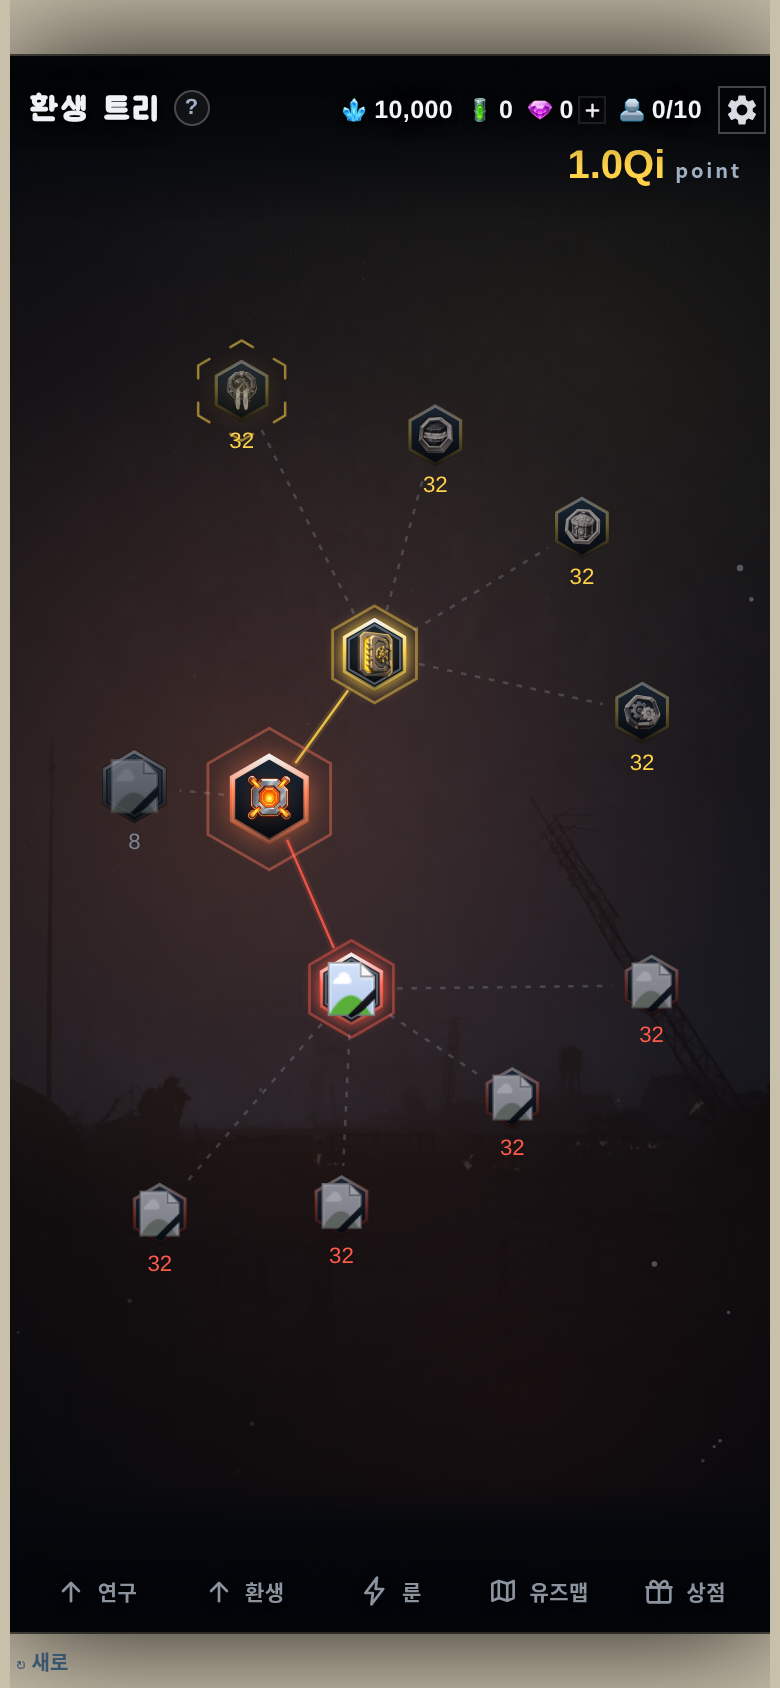
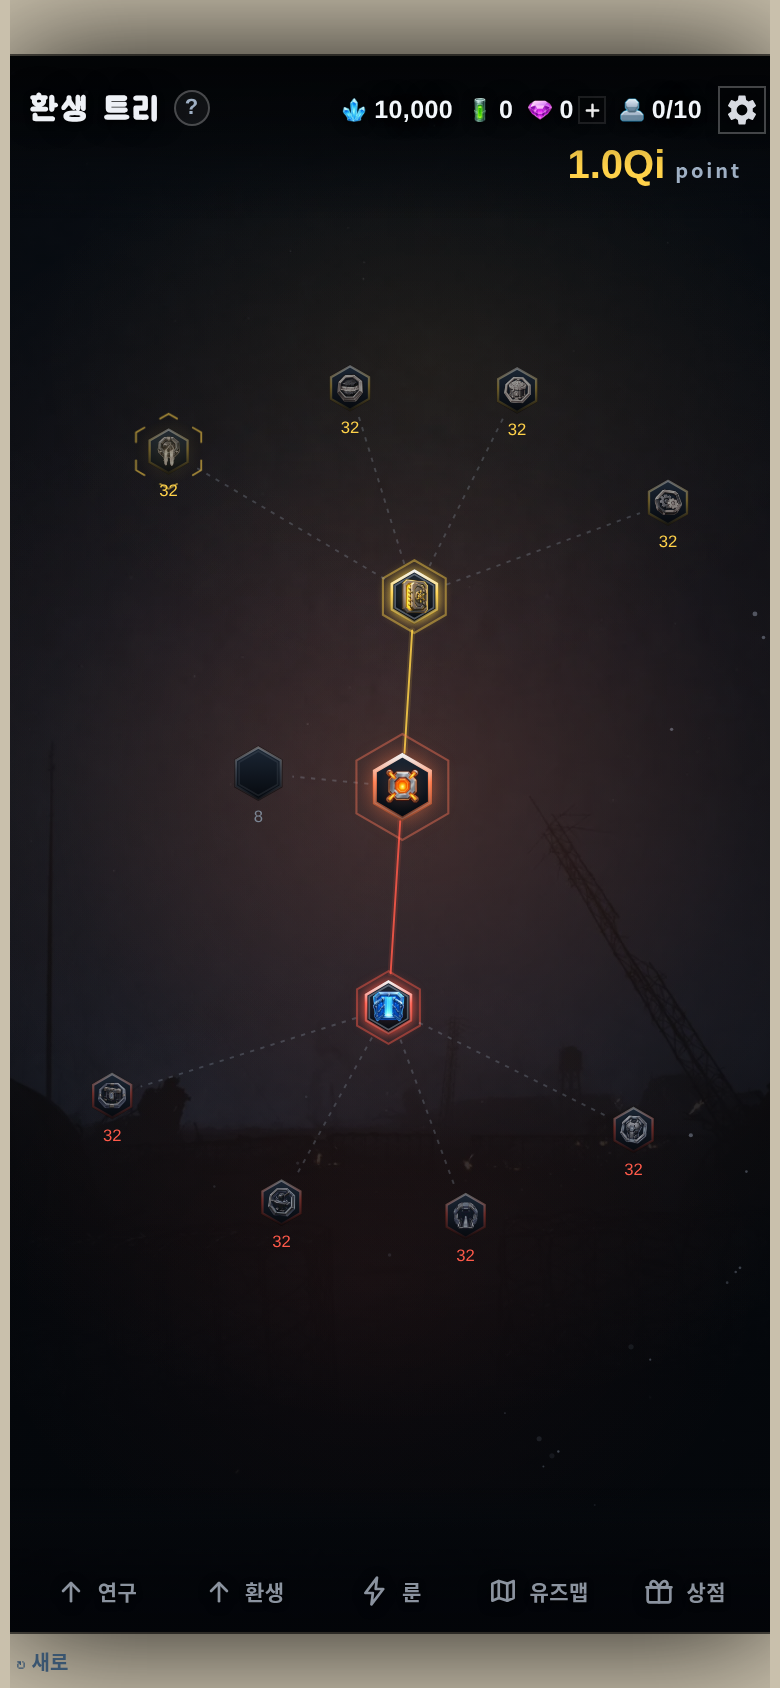
📏 트리 줄기를 등간격으로 — 묶음마디↔첫 계열만 두 배로 벌어져 있었다
사용자 지적: 「각 갈래들의 위치가 두 번째 다음으로 너무 멀어진다 · 모양이 좀 이상하다」

재 보니 그대로였다
  가운데 0 → 갈래마디 63 → 묶음마디 143 → 계열 291 → 363 → 434 → 512
  간격       63       81        148    72    71    78
묶음마디↔첫 계열만 148 로, 다른 칸(63~81)의 두 배였다. 겹침을 고치려고
R0 를 252 → 340 으로 키운 부작용이다.

⛔ R0 를 되돌려서 맞추면 안 된다 — 첫 계열이 안쪽으로 오면 형제끼리 다시
   겹친다(실측 32). ⇒ **마디를 바깥으로 밀어** 셋을 고르게 나눴다.
  CAMP_TREE_R_BR 66 → 94 · CAMP_TREE_R_GP 132 → 178
  결과 89 · 102 · 90 · 72 · 71 · 78 · 67 — 줄기가 굵고 가지가 고르다.

갈래 각도도 다시 잡았다 (재화 위 · 전투 아래 · 미개봉 왼쪽)
- econ -0.44π → -0.48π · army 0.37π → 0.52π · SPREAD 1.40 → 1.35 · R0 330
- 미개봉 갈래는 마디 하나뿐이라 자리를 거의 안 쓴다 → 나머지 둘을 더 벌렸다.
- 경계 비율 0.99 → 0.78 로 세로 화면을 더 쓴다(화면은 0.51).

스모크에 「줄기 등간격」 가드를 넣었다 — 세 칸 중 가장 큰 칸이 가장 작은 칸의
1.7배를 넘으면 실패. 주입 시험으로 옛 값(2.20배)이 잡히는 것을 확인했다.

전체 스모크 통과 (lobby 195 · game 59 · sandbox 10 · duo 11).

Claude-Session: https://claude.ai/code/session_01EtmtaHFCqqHiZ1fmbN5ZoQ

diff --git a/js/19-camp.js b/js/19-camp.js
@@ -903,16 +903,20 @@ function campRtFoeMul(){ let m = 1;
 //     따로 논다(사용자 지적). 내용은 초록의 어법(「회차 시작 시 ~」)을 가져오되 구조는 통일한다.
 //   ⚠ 각도는 120° 씩. y 가 아래로 가는 좌표라 **각이 커지면 시계 방향**이다.
 const CAMP_TREE_BR = {
-  econ: { a:-Math.PI*0.30, rk:0.95, nm:'재화 획득', col:'#ffd24a' },   // ↗
-  army: { a: Math.PI*0.37, rk:1.10, nm:'전투',      col:'#ff5a4a' },   // ↘
+  econ: { a:-Math.PI*0.48, rk:0.95, nm:'재화 획득', col:'#ffd24a' },   // ↗
+  army: { a: Math.PI*0.52, rk:1.10, nm:'전투',      col:'#ff5a4a' },   // ↘
   soon: { a: Math.PI*1.03, rk:0.72, nm:'???',       col:'#6b7684', soon:1 },  // ← 미개봉
 };
 // 🔒 미개봉 갈래 — 아직 못 산다. ⛔ 지금 열지 말 것(들어갈 내용이 없다).
 //   여기 들어올 후보: 보스 던전 · 레이드 · PvP (2026-09-04 사용자 메모)
 function campTreeBrSoon(bk){ const B = CAMP_TREE_BR[bk]; return !!(B && B.soon); }
-const CAMP_TREE_SPREAD = 1.40;      // 갈래 하나가 벌어지는 각(rad)
-const CAMP_TREE_R_BR = 66, CAMP_TREE_R_GP = 132;   // 갈래 마디 · 묶음 마디까지 거리
-const CAMP_TREE_R0 = 340, CAMP_TREE_RS = 74;       // 계열 1차까지 거리 · 칸 간격
+const CAMP_TREE_SPREAD = 1.35;      // 갈래 하나가 벌어지는 각(rad)
+// ⭐ **가운데 → 갈래마디 → 묶음마디 → 첫 계열이 등간격이어야 한다**(2026-09-04 사용자 지적:
+//   「두 번째 다음으로 너무 멀어진다」). 겹침을 고치려고 R0 를 키웠더니 묶음마디↔첫 계열만
+//   138 로 벌어졌다(다른 칸은 63~81). ⇒ **마디를 바깥으로 밀어** 셋을 고르게 나눈다.
+//   ⚠ R0 를 줄여서 맞추면 안 된다 — 첫 계열이 안쪽으로 오면 형제끼리 다시 겹친다(실측 32).
+const CAMP_TREE_R_BR = 94, CAMP_TREE_R_GP = 178;   // 갈래 마디 · 묶음 마디까지 거리
+const CAMP_TREE_R0 = 330, CAMP_TREE_RS = 74;       // 계열 1차까지 거리 · 칸 간격
 //   ✨ 흩뜨림 — 같은 차수라도 자리를 조금씩 어긋나게 해 별자리처럼 보이게 한다.
 //   ⛔ 난수를 쓰지 말 것. 키로 만든 해시라 **매번 같은 자리**에 선다(별자리는 움직이면 안 된다).
 //   ⚠ 흔들림을 차수마다 **누적하지 않는다** — 누적하면 사슬이 제 갈래를 벗어나 얽힌다.

diff --git a/test/smoke.js b/test/smoke.js
@@ -4371,6 +4371,18 @@ async function groupLobby(){
           const d=Math.hypot(pts[i].x-pts[j].x,pts[i].y-pts[j].y);
           if(d<cross){ cross=d; cw=pts[i].br+' ↔ '+pts[j].br; } }
         assert(cross>=34,'다른 갈래가 겹친다(중심 사이 '+cross.toFixed(0)+'): '+cw); }
+      // 📏 **줄기가 등간격이어야 한다**(2026-09-04 사용자 지적 「두 번째 다음으로 너무 멀어진다」)
+      //   가운데 → 갈래마디 → 묶음마디 → 첫 계열. 한 칸만 두 배로 벌어지면 나무가 끊겨 보인다.
+      //   ⛔ R0 만 키워서 겹침을 고치지 말 것 — 그러면 이 칸만 138 이 된다(실측).
+      { const d=p=>Math.hypot(p.x,p.y);
+        for(const bk in CAMP_TREE_BR){ if(campRtIsChain(bk)||campTreeBrSoon(bk)) continue;
+          const L0=CAMP_RT_LINES.find(L=>L.br===bk); if(!L0) continue;
+          const r=[d(campTreeBrPos(bk)), d(campTreeGpPos(bk,L0.grp)), d(campTreePos(L0.k,1))];
+          const gap=[r[0], r[1]-r[0], r[2]-r[1]];
+          const lo=Math.min(...gap), hi=Math.max(...gap);
+          assert(lo>0,bk+' 줄기 간격이 뒤집혔다: '+gap.map(Math.round).join(' · '));
+          assert(hi/lo<1.7,bk+' 줄기 한 칸만 크게 벌어졌다: '+gap.map(Math.round).join(' · ')
+            +' (가장 큰 칸이 가장 작은 칸의 '+(hi/lo).toFixed(2)+'배)'); } }
       // 🔗 선이 별 **안으로 파고들지 않는다** (2026-09-02 사용자 지적)
       //   ⛔ 중심에서 중심으로 긋지 말 것. 양 끝을 반지름 + 틈만큼 물린다.
       { const g=$('ctG'); const gems=[...g.querySelectorAll('.ctGem')].map(e=>({
